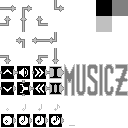
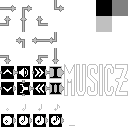
animated notes, improved background

Changed region(s): [[0.5, 0.5, 1.0, 0.75]]

diff --git a/scripts/Note.cs b/scripts/Note.cs
@@ -33,6 +33,8 @@ public partial class Note : Node2D {
     private readonly Dictionary<InstrumentType, Instrument> _instruments = new();
     private readonly List<Sprite2D> _notesSprites = new();
     private readonly List<Sprite2D> _whiteDotSprites = new();
+    private readonly List<Sprite2D> _lines = new();
+    private bool _isAlive = true;
     public Duration Duration { get; private set; }
     public InstrumentType Instrument { get; private set; }
     public List<PitchNotation> Pitches { get; } = new();
@@ -48,7 +50,9 @@ public partial class Note : Node2D {
         // Staff is only drawn on some lines
         string[] lines = { "E", "G", "B", "Dva", "Fva" };
         foreach (var line in lines) {
-            GetNode<Node2D>(line).AddChild(_lineStaffScene.Instantiate<Sprite2D>());
+            var instance = _lineStaffScene.Instantiate<Sprite2D>();
+            GetNode<Node2D>(line).AddChild(instance);
+            _lines.Add(instance);
         }
 
         foreach (var pitch in Pitches) {
@@ -71,10 +75,9 @@ public partial class Note : Node2D {
     private void Process() {
         var cell = GameManager.Instance.Tilemap.GetProcessor(Position);
         if (cell == null) {
-            //TODO destroy animation
-            QueueFree();
+            DeleteDisappear(GameManager.Instance.TimerTempoAnimation);
         }
-        else {
+        else if (_isAlive) {
             cell.Process(this);
         }
     }
@@ -106,7 +109,19 @@ public partial class Note : Node2D {
     public void MoveByTempo(Vector2 to) {
         MoveByTempo(to, Callable.From(() => { }));
     }
-    
+
+    /// <summary>
+    /// Plays a note and animate it
+    /// </summary>
+    public void PlayNote() {
+        GameManager.Instance.AudioManager.PlayNote(this);
+        float duration = 3 * GameManager.Instance.TimerTempoAnimation;
+        var tween = GetTree().CreateTween().SetParallel();
+        tween.TweenProperty(this, "scale", 2f * Vector2.One, duration).AsRelative();
+        tween.TweenProperty(this, "rotation_degrees", 720, duration).AsRelative();
+        DeleteDisappear(duration);
+    }
+
     /// <summary>
     /// Move a note towards a given position, in the timeframe allowed per beat
     /// </summary>
@@ -114,9 +129,7 @@ public partial class Note : Node2D {
     /// <param name="callback">A callback function to call after having moved</param>
     public void MoveByTempo(Vector2 to, Callable callback) {
         var tween = GetTree().CreateTween();
-        var duration = 60 * GameManager.Instance.PercentToStartAnims /
-                       GameManager.Instance.Tempo;
-        tween.TweenProperty(this, "position", to, duration);
+        tween.TweenProperty(this, "position", to, GameManager.Instance.TimerTempoAnimation);
         tween.TweenCallback(callback);
     }
 
@@ -207,6 +220,29 @@ public partial class Note : Node2D {
 
         _notesSprites.Add(sprite);
         _whiteDotSprites.Add(whiteDotSprite);
+    }
+    
+    /// <summary>
+    /// Delete the note while disappearing after a given time
+    /// </summary>
+    /// <param name="duration">The time it takes for the note to disappear</param>
+    private void DeleteDisappear(float duration) {
+        var tween = GetTree().CreateTween();
+        _isAlive = false;
+        tween.SetParallel();
+
+        void SetTween(List<Sprite2D> sprites) {
+            foreach (var sprite in sprites) {
+                tween.TweenProperty(sprite, "modulate", new Color(sprite.Modulate, 0f),
+                    duration).SetTrans(Tween.TransitionType.Sine);
+            }
+        }
+
+        SetTween(_notesSprites);
+        SetTween(_whiteDotSprites);
+        SetTween(_lines);
+        tween.SetParallel(false);
+        tween.TweenCallback(Callable.From(QueueFree));
     }
 
     /// <summary>

diff --git a/scripts/managers/GameManager.cs b/scripts/managers/GameManager.cs
@@ -7,6 +7,7 @@ namespace heigpdg2024.scripts.managers;
 /// Class representing a game manager as a static singleton
 /// </summary>
 public partial class GameManager : Node {
+    [Export] private float _percentToStartAnims = 0.4f;
     public static GameManager Instance { get; private set; }
     public Node CurrentScene { get; private set; }
     public ProgressionManager ProgressionManager { get; private set; }
@@ -18,11 +19,14 @@ public partial class GameManager : Node {
         get => _tempo;
         set {
             _tempo = value;
-            TimerTempo?.SetWaitTime(60f / _tempo);
+            float waitTime = 60f / _tempo;
+            TimerTempo?.SetWaitTime(waitTime);
+            TimerTempoAnimation = _percentToStartAnims * waitTime;
         }
     }
 
-    public float PercentToStartAnims { get; private set; } = 0.4f;
+    public float TimerTempoAnimation { get; private set; }
+
     public Timer TimerTempo { get; private set; }
 
     public override void _Ready() {

diff --git a/scripts/cells/Speaker.cs b/scripts/cells/Speaker.cs
@@ -22,8 +22,8 @@ public class Speaker : Processor {
             note.MoveByTempo(Position, Callable.From(note.QueueFree));
             return;
         }
-        GameManager.Instance.AudioManager.PlayNote(note);
+        
         GameManager.Instance.ProgressionManager.TryRequirement(note);
-        note.MoveByTempo(Position, Callable.From(note.QueueFree));
+        note.MoveByTempo(Position, Callable.From(note.PlayNote));
     }
 }
